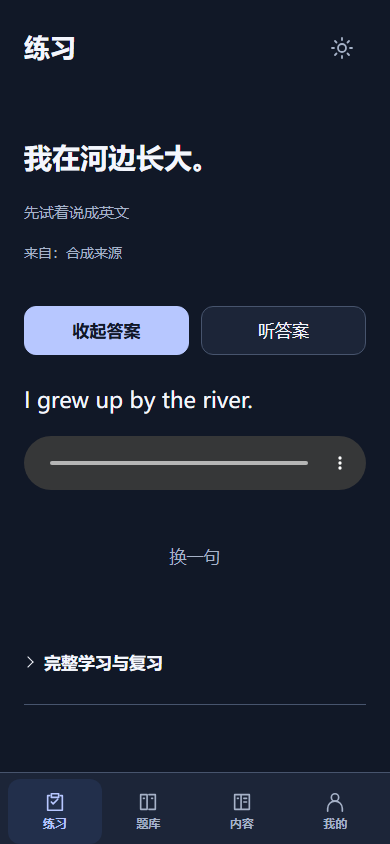
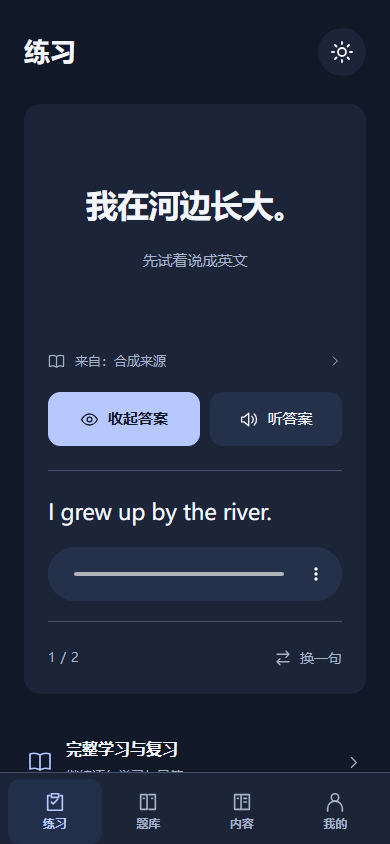
fix: 完善手机首页练习布局与主题细节

diff --git a/web/mobile.js b/web/mobile.js
@@ -9,6 +9,7 @@ const MobileAppearance = (() => {
   };
   function refresh() {
     const dark = document.body.dataset.mobileTheme === 'dark';
+    if(MobileRuntime.native)MobileRuntime.plugin.setAppearance?.({dark})?.catch(()=>{});
     document.querySelectorAll('[data-mobile-theme-toggle]').forEach(button => {
       const label = dark ? '切换到清透白' : '切换到午夜蓝';
       button.innerHTML = `<svg viewBox="0 0 24 24" aria-hidden="true">${icons[dark ? 'sun' : 'moon']}</svg>`;
@@ -181,6 +182,12 @@ class NativePlayer extends EventTarget {
 
 const MobileUI = (() => {
   let timer=null, homeAudio=null, homeRevision=0;
+  const homeIcons={answer:'<path d="M2 12s3.5-7 10-7 10 7 10 7-3.5 7-10 7S2 12 2 12Z"/><circle cx="12" cy="12" r="3"/>',
+    listen:'<path d="m11 4-6 5H2v6h3l6 5V4ZM15 8a6 6 0 0 1 0 8M18 5a10 10 0 0 1 0 14"/>',
+    book:'<path d="M12 5C9 3 5 3 2 4v15c3-1 7-1 10 1 3-2 7-2 10-1V4c-3-1-7-1-10 1v15"/>',
+    next:'<path d="M4 7h16l-4-4M20 17H4l4 4M20 7l-4 4M4 17l4-4"/>',
+    arrow:'<path d="m9 5 7 7-7 7"/>'};
+  const homeIcon=name=>`<svg class="home-icon" viewBox="0 0 24 24" aria-hidden="true">${homeIcons[name]}</svg>`;
   const link = id => `#/conversation/${encodeURIComponent(id)}`;
   const jobNotice = job => !job?'':`${(job.errors || []).map(e=>`<p>${esc(e.message)}</p>`).join('')}${job.inflight?'<p>上次请求是否完成无法确认；继续处理可能再次计费。已保存的有效阶段会复用。</p>':''}`;
   function layout(title,html){$app.innerHTML=`<div class="mobile-page"><h1>${esc(title)}</h1>${html}</div>`;$app.scrollTop=0;}
@@ -190,7 +197,7 @@ const MobileUI = (() => {
     const rows=data.home_practice || [];let at=0;
     $app.innerHTML=`<div class="mobile-page home-practice"><header class="mobile-page-header"><h1>练习</h1>${MobileAppearance.button()}</header>
       <section id="home-exercise"></section>
-      <details class="home-full-learning"><summary>完整学习与复习</summary>
+      <details class="home-full-learning"><summary>${homeIcon('book')}<span class="home-full-heading"><span>完整学习与复习</span><small>继续逐句学习与口答</small></span>${homeIcon('arrow')}</summary>
         ${data.active_session_id?`<a class="study-button" href="#/oral-review/${esc(data.active_session_id)}">继续本轮口答</a>`:
           data.due_count?'<button class="study-button" id="mobile-review-start">开始正式口答</button>':'<p>暂无到期口答。</p>'}
         ${(data.continue_learning || []).map(r=>`<a class="mobile-row" href="#/learn/${encodeURIComponent(r.topic_id)}/${encodeURIComponent(r.item_id)}">${esc(r.question)}</a>`).join('')}
@@ -200,14 +207,14 @@ const MobileUI = (() => {
       const host=document.getElementById('home-exercise'),row=rows[at];
       if(!row){host.innerHTML='<div class="home-empty"><h2>准备一份练习内容</h2><p>先回答一道题，或导入已有材料。中文、英文和音频准备好后，就可以在这里练习。</p><a class="study-button primary" href="#/bank">去题库选题</a><a class="study-button" href="#/materials">导入已有内容</a></div>';return;}
       host.innerHTML=`<div class="home-prompt"><h2 id="home-zh">${esc(row.zh)}</h2><p class="study-muted">先试着说成英文</p>
-        <a class="home-source" href="${esc(row.href)}">来自：${esc(row.source || '我的内容')}</a></div>
-        <div class="home-actions"><button class="study-button primary" id="home-toggle-answer">查看答案</button><button class="study-button" id="home-listen">听答案</button></div>
+        </div><a class="home-source" href="${esc(row.href)}">${homeIcon('book')}<span>来自：${esc(row.source || '我的内容')}</span>${homeIcon('arrow')}</a>
+        <div class="home-actions"><button class="study-button primary" id="home-toggle-answer" aria-expanded="false" aria-controls="home-answer">${homeIcon('answer')}<span id="home-toggle-label">查看答案</span></button><button class="study-button" id="home-listen">${homeIcon('listen')}<span>听答案</span></button></div>
         <div id="home-answer" class="home-answer" hidden><p id="home-en"></p><audio id="home-answer-audio" controls preload="none" aria-label="参考答案音频"></audio><p id="home-audio-notice" role="status"></p></div>
-        <button id="home-next" class="home-next" ${rows.length<2?'disabled':''}>换一句</button>`;
+        <div class="home-exercise-footer"><span id="home-position" aria-label="第${at+1}句，共${rows.length}句">${at+1} / ${rows.length}</span><button id="home-next" class="home-next" ${rows.length<2?'disabled':''}>${homeIcon('next')}<span>换一句</span></button></div>`;
       homeAudio=document.getElementById('home-answer-audio');
       const audio=homeAudio,isCurrent=()=>!viewStale(token) && revision===homeRevision && audio===homeAudio;
       function reveal(){document.getElementById('home-answer').hidden=false;document.getElementById('home-en').textContent=row.en;
-        document.getElementById('home-toggle-answer').textContent='收起答案';
+        document.getElementById('home-toggle-label').textContent='收起答案';document.getElementById('home-toggle-answer').setAttribute('aria-expanded','true');
         if(!audio.getAttribute('src')){audio.preload='metadata';audio.src=MobileRuntime.fileUrl(row.audio.url);}
         document.getElementById('home-audio-notice').textContent=row.audio.mode==='estimated'?row.audio.reason:'';}
       audio.onloadedmetadata=()=>{if(isCurrent())audio.currentTime=Math.min(row.audio.start,Math.max(0,audio.duration-.05));};
@@ -215,7 +222,7 @@ const MobileUI = (() => {
       audio.ontimeupdate=()=>{if(row.audio.end!=null && audio.currentTime>=row.audio.end)audio.pause();};
       audio.onerror=()=>{if(isCurrent())document.getElementById('home-audio-notice').textContent='音频暂时无法播放，文字答案仍保留。可再次点击听答案重试。';};
       document.getElementById('home-toggle-answer').onclick=()=>{const answer=document.getElementById('home-answer');
-        if(answer.hidden)reveal();else{audio.pause();answer.hidden=true;document.getElementById('home-en').textContent='';document.getElementById('home-toggle-answer').textContent='查看答案';}};
+        if(answer.hidden)reveal();else{audio.pause();answer.hidden=true;document.getElementById('home-en').textContent='';document.getElementById('home-toggle-label').textContent='查看答案';document.getElementById('home-toggle-answer').setAttribute('aria-expanded','false');}};
       document.getElementById('home-listen').onclick=async()=>{reveal();if(audio.error){audio.load();}
         try{if(row.audio.end!=null && audio.currentTime>=row.audio.end)audio.currentTime=row.audio.start;await audio.play();if(!isCurrent())audio.pause();}
         catch(e){if(isCurrent())document.getElementById('home-audio-notice').textContent=`音频未播放：${e.message}。文字答案已保留，可重试。`;}};

diff --git a/web/mobile.css b/web/mobile.css
@@ -49,17 +49,44 @@ body.mobile-learning input,body.mobile-learning textarea{caret-color:var(--blue)
 .mobile-page-header h1{margin:0!important}
 body.mobile-learning .mobile-page .mobile-theme-toggle{width:48px;height:48px;padding:12px;border:0;background:transparent;color:var(--ink-soft);display:inline-flex;align-items:center;justify-content:center}
 .mobile-theme-toggle svg,.mobile-menu-row svg{width:24px;height:24px;stroke:currentColor;fill:none;stroke-width:1.8;stroke-linecap:round;stroke-linejoin:round}
-.home-prompt{padding:36px 0 32px;min-height:180px}
-body.mobile-learning #home-zh{font-size:28px;line-height:1.6;font-weight:650;margin:0 0 18px}
-.home-prompt .study-muted{margin:0 0 12px}
-.home-source{color:var(--ink-soft);font-size:14px;text-underline-offset:4px;display:inline-block;min-height:32px}
-.home-actions{display:grid;grid-template-columns:1fr 1fr;gap:12px}
-.home-answer{padding:28px 0 8px}
-#home-en{font-size:22px;line-height:1.6;font-weight:500;margin:0 0 18px}
-#home-audio-notice{font-size:14px;color:var(--ink-soft)}
-body.mobile-learning .mobile-page .home-next{background:transparent;border:0;color:var(--ink-soft);display:block;margin:20px auto}
-.home-full-learning{margin-top:40px}
-.home-empty{padding:28px 0}
+.home-practice .mobile-page-header{margin:4px 0 28px}
+body.mobile-learning .home-practice :is(h1,#home-zh)[tabindex="-1"]:focus{outline:none}
+body.mobile-learning .home-practice h1{font-size:1.53em}
+body.mobile-learning .home-practice .mobile-theme-toggle{background:var(--paper-raised);border-radius:50%;color:var(--ink)}
+#home-exercise{padding:0 24px;background:var(--paper-raised);border-radius:16px}
+.home-prompt{display:flex;flex-direction:column;justify-content:center;align-items:center;padding:36px 0 28px;min-height:240px;text-align:center}
+body.mobile-learning #home-zh{font-size:1.88em;line-height:1.55;font-weight:650;letter-spacing:-.025em;text-wrap:balance;margin:0;width:100%}
+.home-prompt .study-muted{font-size:.88em;margin:18px 0 0}
+.home-icon{width:20px;height:20px;flex-shrink:0;fill:none;stroke:currentColor;stroke-width:1.7;stroke-linecap:round;stroke-linejoin:round}
+.home-source{display:flex;align-items:center;gap:10px;color:var(--ink-soft);font-size:.765em;line-height:1.6;min-height:48px;text-decoration:none;text-underline-offset:4px;padding:0 0 14px}
+.home-source span{flex:1;min-width:0;overflow-wrap:anywhere}
+.home-source>.home-icon:first-child{width:17px;height:17px}
+.home-source>.home-icon:last-child{width:14px;height:14px}
+.home-source:hover span{text-decoration:underline}
+.home-actions{display:grid;grid-template-columns:1.15fr 1fr;gap:10px}
+body.mobile-learning .home-actions .study-button{display:flex;align-items:center;justify-content:center;gap:9px;min-height:54px;padding:12px 8px;font-size:.88em;border-radius:12px}
+body.mobile-learning .home-actions #home-listen{background:var(--paper-soft);border-color:transparent}
+.home-actions .home-icon{width:19px;height:19px}
+.home-answer{margin-top:24px;padding:24px 0 0;border-top:1px solid var(--rule)}
+#home-en{font-size:1.294em;line-height:1.55;font-weight:500;letter-spacing:-.01em;margin:0 0 18px}
+.home-answer audio{color-scheme:inherit}
+.home-answer audio::-webkit-media-controls-panel{background:var(--paper-soft)}
+#home-audio-notice{font-size:.824em;color:var(--ink-soft);margin:12px 0 0}
+#home-audio-notice:empty{display:none}
+.home-exercise-footer{display:flex;align-items:center;justify-content:space-between;gap:12px;margin-top:20px;padding:12px 0;border-top:1px solid var(--rule)}
+#home-position{font-size:.765em;line-height:1.5;color:var(--ink-soft);font-variant-numeric:tabular-nums;letter-spacing:.04em}
+body.mobile-learning .mobile-page .home-next{display:flex;align-items:center;gap:8px;background:transparent;border:0;color:var(--ink-soft);font-size:.824em;padding:8px 0 8px 12px;margin:0;min-height:48px}
+.home-next .home-icon{width:18px;height:18px}
+body.mobile-learning .home-actions button:active,body.mobile-learning .home-practice .mobile-theme-toggle:active{transform:scale(.97)}
+body.mobile-learning .home-practice .home-full-learning{margin-top:28px;padding:0;border:0}
+.home-full-learning>summary{gap:14px;min-height:80px;padding:10px 4px;font-size:.941em}
+.home-full-learning>summary::before{display:none}
+.home-full-learning>summary>.home-icon:first-child{color:var(--blue);width:24px;height:24px}
+.home-full-heading{display:flex;flex:1;min-width:0;flex-direction:column;gap:3px}
+.home-full-heading small{font-size:.8125em;color:var(--ink-soft);font-weight:400}
+.home-full-learning>summary>.home-icon:last-child{color:var(--ink-soft);width:17px;height:17px}
+.home-full-learning[open]>summary>.home-icon:last-child{transform:rotate(90deg)}
+.home-empty{padding:36px 0}
 .home-empty .study-button{display:block;margin-top:16px}
 .mobile-menu-row{display:flex;align-items:center;justify-content:space-between;gap:14px;padding:14px 0;min-height:48px;color:var(--ink);text-decoration:none}
 .mobile-menu-row svg{width:18px;height:18px;color:var(--ink-soft)}
@@ -101,5 +128,5 @@ body.mobile-learning .bank-topic-tag,body.mobile-learning .bank-part-tag{backgro
 body.mobile-learning .reading-line,body.mobile-learning .transcript-line{color:var(--ink)}
 body.mobile-learning .reading-line.active,body.mobile-learning .transcript-line.active{background:var(--blue-soft)}
 body.mobile-learning .study-breadcrumb,body.mobile-learning .study-breadcrumb a{color:var(--ink-soft)}
-@media(max-width:380px){body.mobile-learning #app{padding-left:18px;padding-right:18px}body.mobile-learning #home-zh{font-size:26px}}
+@media(max-width:380px){body.mobile-learning #app{padding-left:18px;padding-right:18px}body.mobile-learning #home-zh{font-size:1.765em}#home-exercise{padding-left:22px;padding-right:22px}}
 @media(prefers-reduced-motion:reduce){body.mobile-learning *,body.mobile-learning *::before,body.mobile-learning *::after{scroll-behavior:auto;transition:none;animation:none}}

diff --git a/web/sw.js b/web/sw.js
@@ -1,5 +1,5 @@
 /* Service Worker：静态资源缓存优先，API 网络优先（音频/数据保持新鲜）。 */
-const CACHE = "ielts-pod-assets-v11";
+const CACHE = "ielts-pod-assets-v12";
 const STATIC_ASSETS = [
   "/",
   "/static/app.js",

diff --git a/tests/e2e/test_mobile_home_ui.py b/tests/e2e/test_mobile_home_ui.py
@@ -43,7 +43,10 @@ def test_home_reveal_audio_next_and_theme_do_not_change_learning(phone):
     seed(phone)
     before = phone.evaluate("JSON.stringify(window.__mobileState)")
     expect(phone.locator("#app")).not_to_contain_text("I grew up by the river.")
+    expect(phone.locator("#home-toggle-answer")).to_have_attribute("aria-expanded", "false")
+    expect(phone.locator("#home-position")).to_have_text("1 / 2")
     phone.locator("#home-toggle-answer").click()
+    expect(phone.locator("#home-toggle-answer")).to_have_attribute("aria-expanded", "true")
     expect(phone.locator("#home-answer")).to_contain_text("I grew up by the river.")
     assert phone.locator("#home-answer-audio").evaluate("a=>a.paused")
     phone.locator("#home-listen").click()
@@ -54,6 +57,8 @@ def test_home_reveal_audio_next_and_theme_do_not_change_learning(phone):
     assert not phone.locator("#home-answer-audio").evaluate("a=>a.paused")
     phone.locator("#home-next").click()
     expect(phone.locator("#home-zh")).to_have_text("我和家人一起散步。")
+    expect(phone.locator("#home-position")).to_have_text("2 / 2")
+    expect(phone.locator("#home-toggle-answer")).to_have_attribute("aria-expanded", "false")
     expect(phone.locator("#home-answer")).to_be_hidden()
     assert phone.locator("#home-answer-audio").evaluate("a=>a.paused")
     assert phone.evaluate("JSON.stringify(window.__mobileState)") == before
@@ -119,6 +124,49 @@ def test_history_includes_saved_full_answer_recordings(phone):
     expect(phone.locator('#app')).to_contain_text('完整回答录音')
     expect(phone.locator('#app')).to_contain_text('看中文说')
     expect(phone.get_by_label('回听看中文说录音')).to_be_visible()
+
+
+def test_home_reading_surface_handles_long_sentences_and_large_text(phone):
+    seed(phone)
+    out = Path(__file__).resolve().parents[2] / 'data/.tmp/home-refinement'
+    out.mkdir(parents=True, exist_ok=True)
+    for theme in ('light', 'dark'):
+        if phone.locator('body').get_attribute('data-mobile-theme') != theme:
+            phone.locator('#mobile-theme-toggle').click()
+        for width in (360, 390, 430):
+            phone.set_viewport_size({'width': width, 'height': 844})
+            assert phone.evaluate('document.documentElement.scrollWidth <= innerWidth')
+            phone.screenshot(path=str(out / f'{theme}-{width}-home.png'))
+            phone.locator('#home-toggle-answer').click()
+            phone.wait_for_function("document.getElementById('home-answer-audio').readyState >= 1")
+            phone.screenshot(path=str(out / f'{theme}-{width}-answer.png'))
+            phone.locator('#home-toggle-answer').click()
+    phone.evaluate("""() => {
+      const item=window.__mobileState.topics.t.items.a;
+      const zh='我在河边的一座小城长大，那里的人大多彼此熟悉。';
+      const en='I grew up in a small town by the river, where most people knew each other.';
+      Object.assign(item.texts,{original_answer:zh,natural_english:en,
+        podcast_text:'B: '+en,podcast_script:'B: '+en});
+      item.material=MobileCore.validateStudyMaterial({complete_chinese:zh,sentences:[
+        {en,zh,explanation:'合成解释',usage:'合成用法'}]},item.texts);
+      item.timelines.podcast.lines[0].text=en;
+      route();
+    }""")
+    expect(phone.locator('#home-zh')).to_contain_text('我在河边的一座小城长大')
+    phone.set_viewport_size({'width': 360, 'height': 680})
+    phone.add_style_tag(content='body.mobile-learning{font-size:22px}')
+    for theme in ('light', 'dark'):
+        if phone.locator('body').get_attribute('data-mobile-theme') != theme:
+            phone.locator('#mobile-theme-toggle').click()
+        assert phone.evaluate('document.documentElement.scrollWidth <= innerWidth')
+        phone.screenshot(path=str(out / f'{theme}-long-large-text.png'))
+        for selector in ('#home-toggle-answer', '#home-listen', '#home-next'):
+            button = phone.locator(selector)
+            button.scroll_into_view_if_needed()
+            assert button.evaluate("""b => {
+              const r=b.getBoundingClientRect();
+              return b.contains(document.elementFromPoint(r.x+r.width/2,r.y+r.height/2));
+            }"""), selector
 
 
 def test_mobile_theme_layout_and_capture(phone):

diff --git a/mobile/android/app/src/androidTest/java/com/bruce/ieltspod/LearningMobileUiTest.java b/mobile/android/app/src/androidTest/java/com/bruce/ieltspod/LearningMobileUiTest.java
@@ -31,6 +31,12 @@ public final class LearningMobileUiTest {
         do{Thread.sleep(100);text=js("document.getElementById('app').innerText");if(text.contains(expected))return;}while(android.os.SystemClock.elapsedRealtime()<deadline);
         fail("screen did not show "+expected+": "+text);
     }
+    private void waitBars(boolean light)throws Exception{
+        for(int i=0;i<30;i++){final boolean[] actual={false};
+            InstrumentationRegistry.getInstrumentation().runOnMainSync(()->actual[0]=androidx.core.view.WindowCompat.getInsetsController(activity.getWindow(),activity.getWindow().getDecorView()).isAppearanceLightStatusBars());
+            if(actual[0]==light)return;Thread.sleep(100);}
+        fail("system bar appearance did not follow theme");
+    }
     private void screenshot(Context app,String name)throws Exception{
         js("window.__qaPaint=false;document.getElementById('app').scrollTop=0;requestAnimationFrame(()=>requestAnimationFrame(()=>window.__qaPaint=true));");
         long deadline=android.os.SystemClock.elapsedRealtime()+5000;while(!js("window.__qaPaint===true").equals("true")){
@@ -63,7 +69,15 @@ public final class LearningMobileUiTest {
                     .put("audio",new JSONObject().put("podcast","/synthetic.m4a")))));
             db.write(state);js("MobileRuntime.snapshot().then(()=>route());");waitText("我在河边长大。");
             assertFalse(js("document.getElementById('app').innerText").contains("I grew up by the river."));
+            assertEquals("false",js("document.getElementById('home-toggle-answer').getAttribute('aria-expanded')"));
+            screenshot(app,"native-home-light.png");
+            js("document.getElementById('mobile-theme-toggle').click();");
+            waitBars(false);
+            screenshot(app,"native-home-dark.png");
+            js("document.getElementById('mobile-theme-toggle').click();");
+            waitBars(true);
             js("document.getElementById('home-toggle-answer').click();");waitText("I grew up by the river.");
+            assertEquals("true",js("document.getElementById('home-toggle-answer').getAttribute('aria-expanded')"));
             assertEquals("true",js("document.getElementById('home-answer-audio').paused"));
             assertFalse(db.read().getJSONObject("topics").getJSONObject("t").getJSONObject("items").getJSONObject("i").has("progress"));
             screenshot(app,"native-home-answer.png");

diff --git a/mobile/android/app/src/main/java/com/bruce/ieltspod/LearningPlugin.java b/mobile/android/app/src/main/java/com/bruce/ieltspod/LearningPlugin.java
@@ -47,6 +47,11 @@ public final class LearningPlugin extends Plugin {
         if(changed)store().write(s);ReviewReminder.schedule(getContext(),s.getJSONObject("settings").optBoolean("reminder_enabled",false));
     }}catch(Exception ignored){}finally{recovered.countDown();}});}
     @Override protected void handleOnDestroy(){mediaHandler.removeCallbacks(mediaTick);if(controller!=null)androidx.media3.session.MediaController.releaseFuture(controller);worker.shutdownNow();super.handleOnDestroy();}
+    @PluginMethod public void setAppearance(PluginCall call){getActivity().runOnUiThread(()->{
+        boolean dark=Boolean.TRUE.equals(call.getBoolean("dark",false));
+        androidx.core.view.WindowInsetsControllerCompat bars=androidx.core.view.WindowCompat.getInsetsController(getActivity().getWindow(),getActivity().getWindow().getDecorView());
+        bars.setAppearanceLightStatusBars(!dark);bars.setAppearanceLightNavigationBars(!dark);call.resolve();
+    });}
     @PluginMethod public void media(PluginCall call){getActivity().runOnUiThread(()->{
         if(controller==null){androidx.media3.session.SessionToken token=new androidx.media3.session.SessionToken(getContext(),new android.content.ComponentName(getContext(),PlaybackService.class));
             controller=new androidx.media3.session.MediaController.Builder(getContext(),token).buildAsync();}

diff --git a/tests/e2e/test_bank_ui.py b/tests/e2e/test_bank_ui.py
@@ -9,7 +9,7 @@ import time
 
 import pytest
 import requests
-from playwright.sync_api import sync_playwright
+from playwright.sync_api import expect, sync_playwright
 
 BASE_URL = os.environ.get("BASE_URL", "http://127.0.0.1:8765")
 
@@ -87,7 +87,7 @@ def test_bank_view_flow():
             page.locator(".bank-row", has_text="已有音频").first.click()
             page.wait_for_timeout(700)
             page.wait_for_selector(".bank-answer-card", timeout=5000)
-            assert page.locator("#saved-answer a", has_text="播放音频").count() == 1
+            expect(page.locator("#saved-answer a", has_text="播放音频")).to_have_count(1)
 
             # 4.5 选中未作答题 → 输入框可见可作答
             # （不精确断言跳转按钮数：同题干可能跨册重复，另一册版本或已作答）
